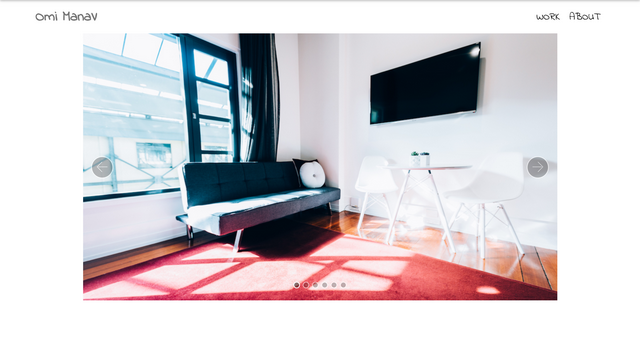
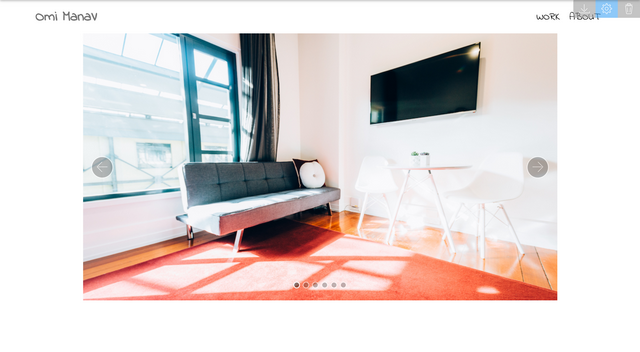
photos fix interior

diff --git a/interior.html b/interior.html
@@ -69,12 +69,12 @@
     </nav>
 </section>
 
-<section class="engine"><a href="https://mobirise.me/h">how to create a web page</a></section><section class="carousel slide cid-qXYp4Ahd6c" data-interval="false" id="slider2-1i">
+<section class="engine"><a href="https://mobirise.me/k">develop free website</a></section><section class="carousel slide cid-qXYp4Ahd6c" data-interval="false" id="slider2-1i">
 
     
     <div class="container content-slider">
         <div class="content-slider-wrap">
-            <div><div class="mbr-slider slide carousel" data-pause="true" data-keyboard="false" data-ride="false" data-interval="false"><ol class="carousel-indicators"><li data-app-prevent-settings="" data-target="#slider2-1i" class=" active" data-slide-to="0"></li><li data-app-prevent-settings="" data-target="#slider2-1i" data-slide-to="1"></li><li data-app-prevent-settings="" data-target="#slider2-1i" data-slide-to="2"></li><li data-app-prevent-settings="" data-target="#slider2-1i" data-slide-to="3"></li><li data-app-prevent-settings="" data-target="#slider2-1i" data-slide-to="4"></li><li data-app-prevent-settings="" data-target="#slider2-1i" data-slide-to="5"></li></ol><div class="carousel-inner" role="listbox"><div class="carousel-item slider-fullscreen-image active" data-bg-video-slide="false" style="background-image: url(assets/images/img-9628.jpg);"><div class="container container-slide"><div class="image_wrapper"><img src="assets/images/img-9628.jpg"><div class="carousel-caption justify-content-center"><div class="col-10 align-center"></div></div></div></div></div><div class="carousel-item slider-fullscreen-image" data-bg-video-slide="false" style="background-image: url(assets/images/img-9622.jpg);"><div class="container container-slide"><div class="image_wrapper"><img src="assets/images/img-9622.jpg"><div class="carousel-caption justify-content-center"><div class="col-10 align-center"></div></div></div></div></div><div class="carousel-item slider-fullscreen-image" data-bg-video-slide="false" style="background-image: url(assets/images/img-9589.jpg);"><div class="container container-slide"><div class="image_wrapper"><img src="assets/images/img-9589.jpg"><div class="carousel-caption justify-content-center"><div class="col-10 align-center"></div></div></div></div></div><div class="carousel-item slider-fullscreen-image" data-bg-video-slide="false" style="background-image: url(assets/images/img-9593.jpg);"><div class="container container-slide"><div class="image_wrapper"><img src="assets/images/img-9593.jpg"><div class="carousel-caption justify-content-center"><div class="col-10 align-center"></div></div></div></div></div><div class="carousel-item slider-fullscreen-image" data-bg-video-slide="false" style="background-image: url(assets/images/img-9600.jpg);"><div class="container container-slide"><div class="image_wrapper"><img src="assets/images/img-9600.jpg"><div class="carousel-caption justify-content-center"><div class="col-10 align-center"></div></div></div></div></div><div class="carousel-item slider-fullscreen-image" data-bg-video-slide="false" style="background-image: url(assets/images/img-9603-edit.jpg);"><div class="container container-slide"><div class="image_wrapper"><img src="assets/images/img-9603-edit.jpg"><div class="carousel-caption justify-content-center"><div class="col-10 align-center"></div></div></div></div></div></div><a data-app-prevent-settings="" class="carousel-control carousel-control-prev" role="button" data-slide="prev" href="#slider2-1i"><span aria-hidden="true" class="mbri-left mbr-iconfont"></span><span class="sr-only">Previous</span></a><a data-app-prevent-settings="" class="carousel-control carousel-control-next" role="button" data-slide="next" href="#slider2-1i"><span aria-hidden="true" class="mbri-right mbr-iconfont"></span><span class="sr-only">Next</span></a></div></div> 
+            <div><div class="mbr-slider slide carousel" data-pause="true" data-keyboard="false" data-ride="false" data-interval="false"><ol class="carousel-indicators"><li data-app-prevent-settings="" data-target="#slider2-1i" class=" active" data-slide-to="0"></li><li data-app-prevent-settings="" data-target="#slider2-1i" data-slide-to="1"></li><li data-app-prevent-settings="" data-target="#slider2-1i" data-slide-to="2"></li><li data-app-prevent-settings="" data-target="#slider2-1i" data-slide-to="3"></li><li data-app-prevent-settings="" data-target="#slider2-1i" data-slide-to="4"></li><li data-app-prevent-settings="" data-target="#slider2-1i" data-slide-to="5"></li></ol><div class="carousel-inner" role="listbox"><div class="carousel-item slider-fullscreen-image active" data-bg-video-slide="false" style="background-image: url(assets/images/img-9629.jpg);"><div class="container container-slide"><div class="image_wrapper"><img src="assets/images/img-9629.jpg"><div class="carousel-caption justify-content-center"><div class="col-10 align-center"></div></div></div></div></div><div class="carousel-item slider-fullscreen-image" data-bg-video-slide="false" style="background-image: url(assets/images/img-9623.jpg);"><div class="container container-slide"><div class="image_wrapper"><img src="assets/images/img-9623.jpg"><div class="carousel-caption justify-content-center"><div class="col-10 align-center"></div></div></div></div></div><div class="carousel-item slider-fullscreen-image" data-bg-video-slide="false" style="background-image: url(assets/images/img-9589.jpg);"><div class="container container-slide"><div class="image_wrapper"><img src="assets/images/img-9589.jpg"><div class="carousel-caption justify-content-center"><div class="col-10 align-center"></div></div></div></div></div><div class="carousel-item slider-fullscreen-image" data-bg-video-slide="false" style="background-image: url(assets/images/img-9593.jpg);"><div class="container container-slide"><div class="image_wrapper"><img src="assets/images/img-9593.jpg"><div class="carousel-caption justify-content-center"><div class="col-10 align-center"></div></div></div></div></div><div class="carousel-item slider-fullscreen-image" data-bg-video-slide="false" style="background-image: url(assets/images/img-9627.jpg);"><div class="container container-slide"><div class="image_wrapper"><img src="assets/images/img-9627.jpg"><div class="carousel-caption justify-content-center"><div class="col-10 align-center"></div></div></div></div></div><div class="carousel-item slider-fullscreen-image" data-bg-video-slide="false" style="background-image: url(assets/images/img-9603-edit.jpg);"><div class="container container-slide"><div class="image_wrapper"><img src="assets/images/img-9603-edit.jpg"><div class="carousel-caption justify-content-center"><div class="col-10 align-center"></div></div></div></div></div></div><a data-app-prevent-settings="" class="carousel-control carousel-control-prev" role="button" data-slide="prev" href="#slider2-1i"><span aria-hidden="true" class="mbri-left mbr-iconfont"></span><span class="sr-only">Previous</span></a><a data-app-prevent-settings="" class="carousel-control carousel-control-next" role="button" data-slide="next" href="#slider2-1i"><span aria-hidden="true" class="mbri-right mbr-iconfont"></span><span class="sr-only">Next</span></a></div></div> 
         </div>
     </div>
 </section>

diff --git a/hebei02.html b/hebei02.html
@@ -69,7 +69,7 @@
     </nav>
 </section>
 
-<section class="engine"><a href="https://mobirise.me/u">bootstrap website templates</a></section><section class="carousel slide cid-qM4aJHnCPO" data-interval="false" id="slider2-15">
+<section class="engine"><a href="https://mobirise.me/a">Mobirise alternative</a></section><section class="carousel slide cid-qM4aJHnCPO" data-interval="false" id="slider2-15">
 
     
     <div class="container content-slider">

diff --git a/1010d.html b/1010d.html
@@ -69,7 +69,7 @@
     </nav>
 </section>
 
-<section class="engine"><a href="https://mobirise.me/g">build a website</a></section><section class="carousel slide cid-qM3Xe76iNX" data-interval="false" id="slider2-z">
+<section class="engine"><a href="https://mobirise.me/h">how to create a web page for free</a></section><section class="carousel slide cid-qM3Xe76iNX" data-interval="false" id="slider2-z">
 
     
     <div class="container content-slider">

diff --git a/hebei01.html b/hebei01.html
@@ -69,7 +69,7 @@
     </nav>
 </section>
 
-<section class="engine"><a href="https://mobirise.me/k">develop own website</a></section><section class="carousel slide cid-qM42EMrX4D" data-interval="false" id="slider2-14">
+<section class="engine"><a href="https://mobirise.me/i">free site creation software</a></section><section class="carousel slide cid-qM42EMrX4D" data-interval="false" id="slider2-14">
 
     
     <div class="container content-slider">

diff --git a/akl-kef.html b/akl-kef.html
@@ -69,7 +69,7 @@
     </nav>
 </section>
 
-<section class="engine"><a href="https://mobirise.me/v">free html templates</a></section><section class="carousel slide cid-qM4nj4sW8R" data-interval="false" id="slider2-17">
+<section class="engine"><a href="https://mobirise.me/m">website design templates</a></section><section class="carousel slide cid-qM4nj4sW8R" data-interval="false" id="slider2-17">
 
     
     <div class="container content-slider">

diff --git a/1010n.html b/1010n.html
@@ -69,7 +69,7 @@
     </nav>
 </section>
 
-<section class="engine"><a href="https://mobirise.me/r">free bootstrap templates</a></section><section class="carousel slide cid-qM3ZUtxfpM" data-interval="false" id="slider2-10">
+<section class="engine"><a href="https://mobirise.me/l">free web templates</a></section><section class="carousel slide cid-qM3ZUtxfpM" data-interval="false" id="slider2-10">
 
     
     <div class="container content-slider">

diff --git a/portraits.html b/portraits.html
@@ -69,7 +69,7 @@
     </nav>
 </section>
 
-<section class="engine"><a href="https://mobirise.me/z">best free html templates</a></section><section class="carousel slide cid-qM4zdX7lsN" data-interval="false" id="slider2-18">
+<section class="engine"><a href="https://mobirise.me/z">best css templates</a></section><section class="carousel slide cid-qM4zdX7lsN" data-interval="false" id="slider2-18">
 
     
     <div class="container content-slider">

diff --git a/gor.html b/gor.html
@@ -69,7 +69,7 @@
     </nav>
 </section>
 
-<section class="engine"><a href="https://mobirise.me/i">website creation software</a></section><section class="carousel slide cid-qM4d0eg08t" data-interval="false" id="slider2-16">
+<section class="engine"><a href="https://mobirise.me/w">html5 templates</a></section><section class="carousel slide cid-qM4d0eg08t" data-interval="false" id="slider2-16">
 
     
     <div class="container content-slider">

diff --git a/n-i-17.html b/n-i-17.html
@@ -69,7 +69,7 @@
     </nav>
 </section>
 
-<section class="engine"><a href="https://mobirise.me/q">free responsive site templates</a></section><section class="carousel slide cid-qM3RiwD6lo" data-interval="false" id="slider2-x">
+<section class="engine"><a href="https://mobirise.me/t">amp template</a></section><section class="carousel slide cid-qM3RiwD6lo" data-interval="false" id="slider2-x">
 
     
     <div class="container content-slider">

diff --git a/n-i-16.html b/n-i-16.html
@@ -69,7 +69,7 @@
     </nav>
 </section>
 
-<section class="engine"><a href="https://mobirise.me/r">bootstrap template</a></section><section class="carousel slide cid-qORtBQ0nwM" data-interval="false" id="slider2-1f">
+<section class="engine"><a href="https://mobirise.me/f">simple website maker</a></section><section class="carousel slide cid-qORtBQ0nwM" data-interval="false" id="slider2-1f">
 
     
     <div class="container content-slider">

diff --git a/s-i-17.html b/s-i-17.html
@@ -69,7 +69,7 @@
     </nav>
 </section>
 
-<section class="engine"><a href="https://mobirise.me/v">free html templates</a></section><section class="carousel slide cid-qM3TuVymlT" data-interval="false" id="slider2-y">
+<section class="engine"><a href="https://mobirise.me/d">free website maker</a></section><section class="carousel slide cid-qM3TuVymlT" data-interval="false" id="slider2-y">
 
     
     <div class="container content-slider">

diff --git a/gbi.html b/gbi.html
@@ -69,7 +69,7 @@
     </nav>
 </section>
 
-<section class="engine"><a href="https://mobirise.me/j">website templates</a></section><section class="carousel slide cid-qONpcYnDmH" data-interval="false" id="slider2-1e">
+<section class="engine"><a href="https://mobirise.me/a">Mobirise review</a></section><section class="carousel slide cid-qONpcYnDmH" data-interval="false" id="slider2-1e">
 
     
     <div class="container content-slider">
